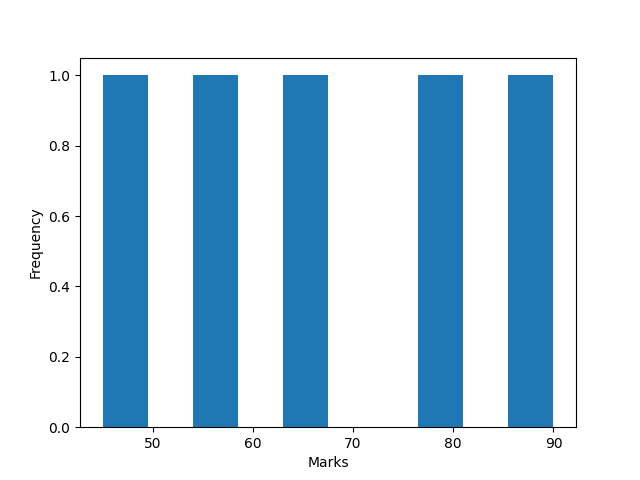
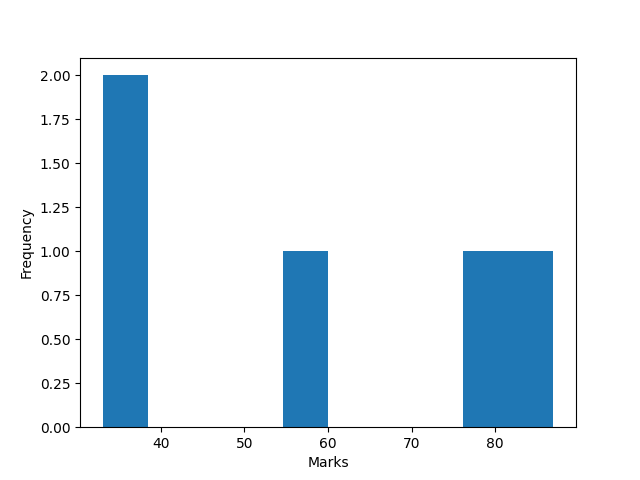
Lab2

diff --git a/Lab 2/output.html b/Lab 2/output.html
@@ -1,0 +1,12 @@
+
+<!DOCTYPE html>
+<html>
+<head>
+    <title>Something Went Wrong</title>
+</head>
+<body>
+<h1>Wrong Inputs</h1>
+<h5>Something Went Wrong</h5>             
+</body>
+</html>    
+                

diff --git a/Lab 2/app.py b/Lab 2/app.py
@@ -1,0 +1,141 @@
+import  jinja2, sys
+import matplotlib
+matplotlib.use('Agg')
+import matplotlib.pyplot as plt
+
+#assinging command line's argument 
+option = sys.argv[1]
+argument= sys.argv[2]
+
+global final_template
+
+# Reading the CSV file
+file = open('data.csv')
+file.readline()
+datalist = [line.strip().split(',') for line in file]
+
+
+#function for handling wrong invalid inputs
+error_template ="""
+<!DOCTYPE html>
+<html>
+<head>
+    <title>Something Went Wrong</title>
+</head>
+<body>
+<h1>Wrong Inputs</h1>
+<h5>Something Went Wrong</h5>             
+</body>
+</html>    
+                """
+
+
+# if user choose student option in command line
+if option == '-s':
+    student_template = """
+<!DOCTYPE html>
+<html>
+<head>
+    <title>Student Data</title>
+</head>
+<body>
+<h1> Students Details </h1>
+    <table border="2px">
+    <tr>
+        <th>Student id</th>
+        <th>Course id</th>
+        <th>Marks</th>
+    </tr>
+    {% for row in rows %}
+        <tr>
+            <td>{{ row[0] }}</td>
+            <td>{{ row[1] }}</td>
+            <td>{{ row[2] }}</td>
+        </tr>
+    {% endfor %}
+    <tr>
+        <td colspan="2"> <center>Total Marks </center></td>
+        <td>{{total_marks}}</td>
+    </tr> 
+    </table>
+</body>
+</html>
+                        """
+    sum, result = 0,[]
+    
+    for row in datalist:
+        if str(row[0]) == argument:
+            result.append(row)
+            sum += int(row[2])
+    
+    if not result:
+        final_template = error_template
+  
+    else:
+        final_template = jinja2.Template(student_template).render(rows=result,total_marks=sum)      
+     
+
+
+# if user choose course option in command line
+elif option == '-c':
+    marks =[]
+    course_template = """
+<!DOCTYPE html>
+<html>
+<head>
+    <title>Course Data</title>
+</head>
+<body>
+<h1> Course Details </h1>
+    <table border="2px">
+    <tr>
+        <th>Average Marks</th>
+        <th>Maximum Marks</th>
+    </tr>
+    <tr>
+        <td>{{avg_marks}}</td>
+        <td>{{max_marks}}</td>
+    </tr> 
+    
+    </table>
+    <img src='plot.png'>
+</body>
+</html>
+                        """    
+    
+    for row in datalist:
+        if str(row[1]) == " "+argument:
+            marks.append(int(row[2]))
+    
+    if not marks:
+        final_template = error_template
+  
+    else:
+        avg_marks = sum(marks)/len(marks)
+        max_marks = max(marks)
+        
+        final_template = jinja2.Template(course_template).render(avg_marks=avg_marks,max_marks=max_marks)
+       
+
+    # Prepare the Data
+    # Create the Plot
+    plt.hist(marks)
+    
+    # Customize the Plot
+    plt.xlabel('Values')
+    plt.ylabel('Frequency')
+    plt.title('Histogram Example')
+
+    # Display the Plot
+    plt.savefig('plot.png')
+    
+
+else:
+    print('else')
+    final_template = error_template
+
+
+with open('output.html', 'w') as file:
+    file.write(final_template)
+    pass
+print("Output file created: output.html")
